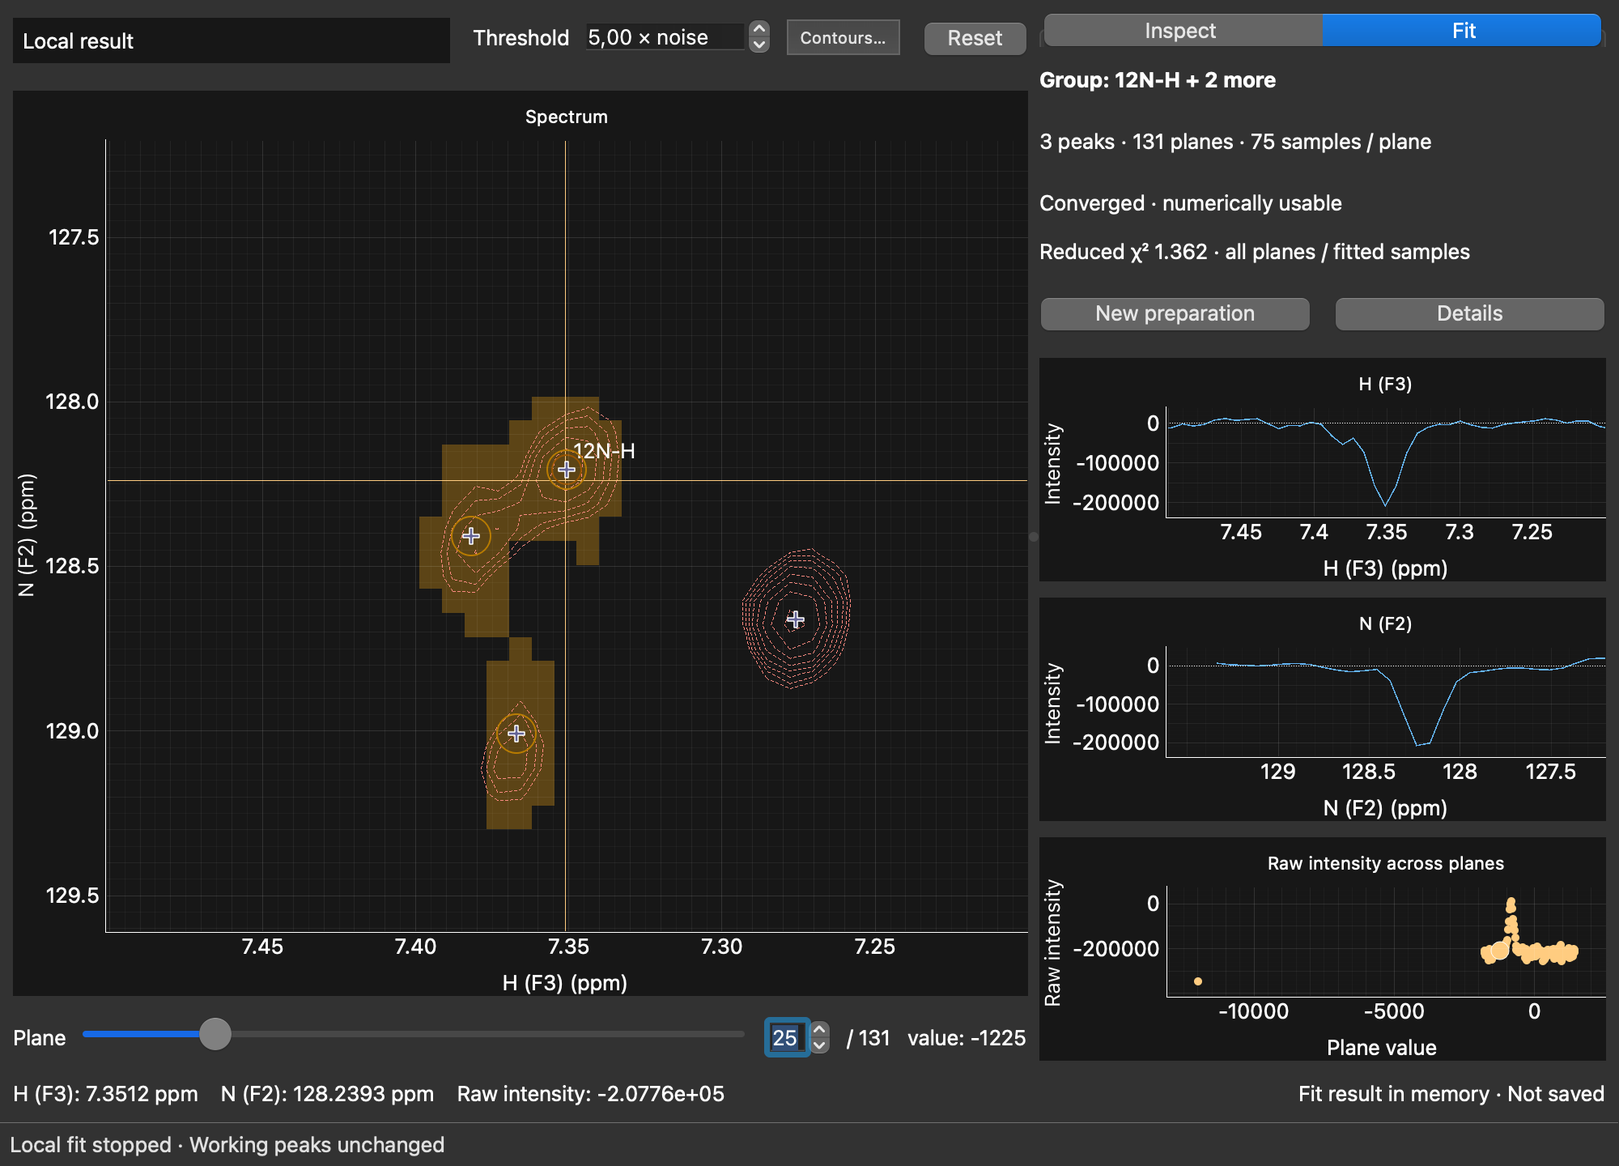
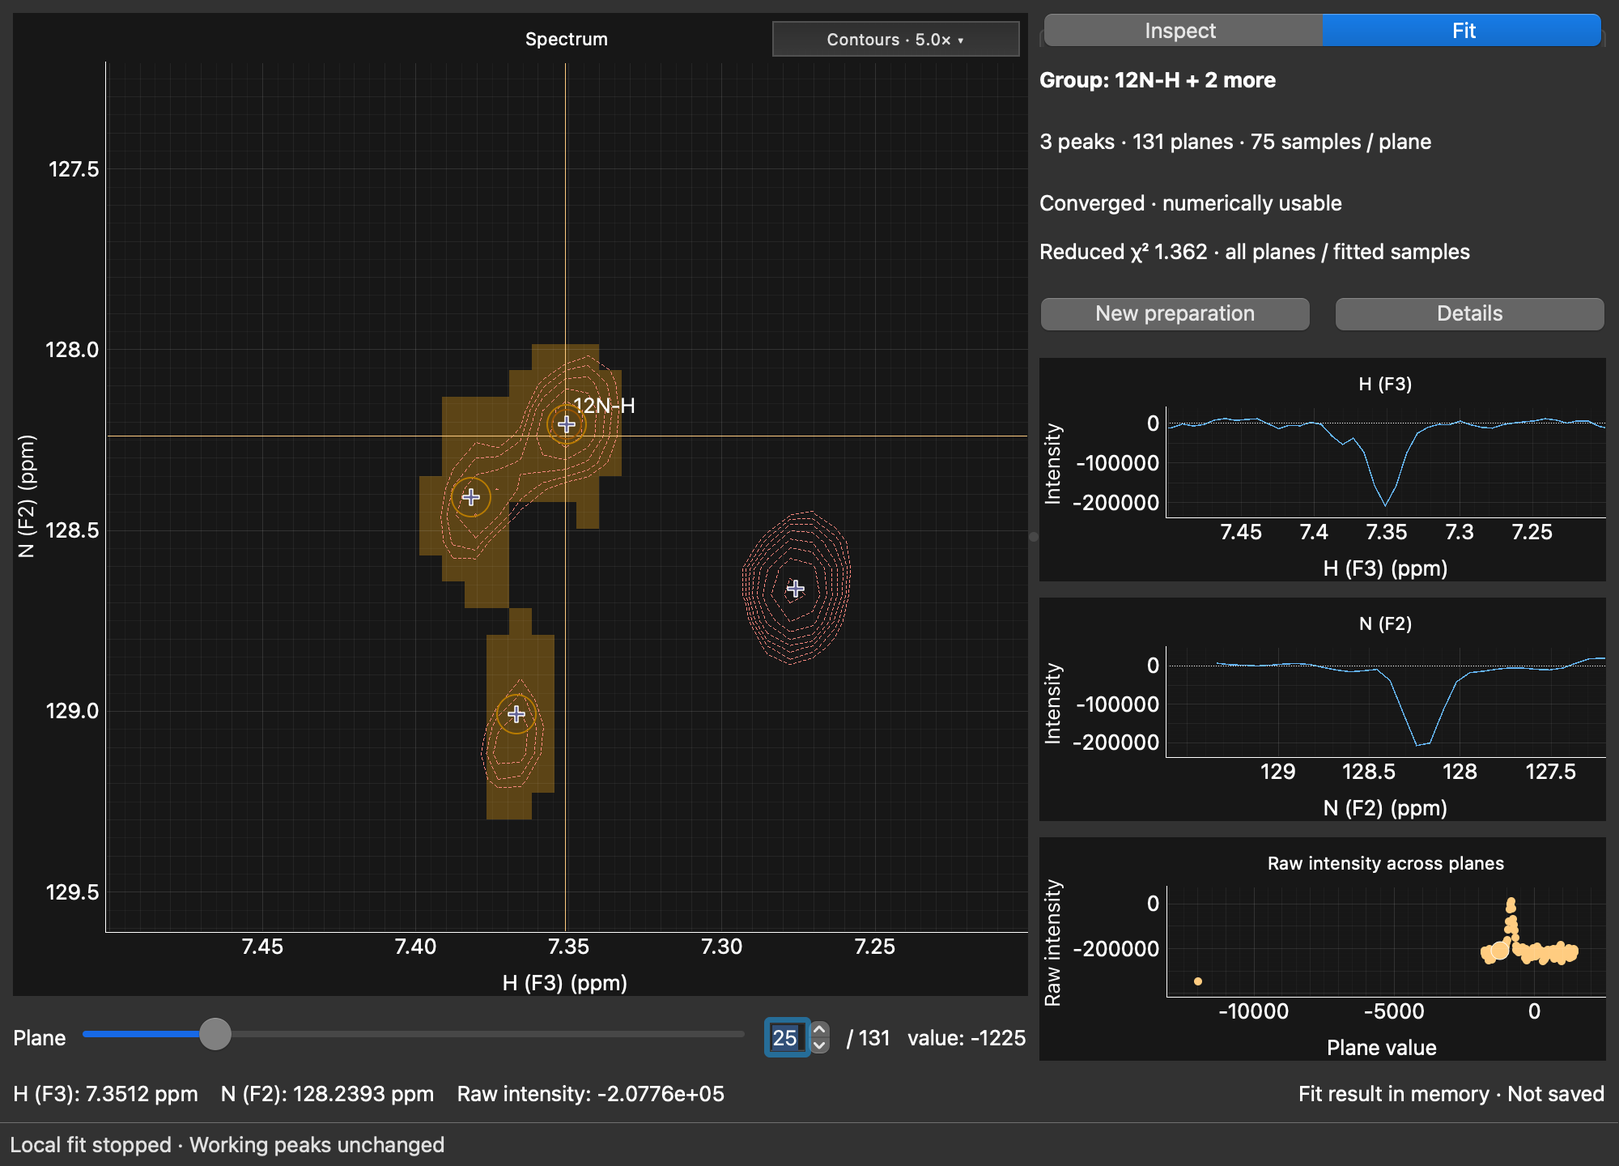
Use one accessible contour control in the spectrum title

diff --git a/src/peakfit/gui/viewer.py b/src/peakfit/gui/viewer.py
@@ -195,7 +195,7 @@ class SpectrumViewer(QtWidgets.QWidget):
     def _axis_title(axis: SpectralParameters) -> str:
         return f"{axis.nucleus or axis.label} ({axis.label})"
 
-    def _build_ui(self) -> None:  # noqa: PLR0915
+    def _build_ui(self) -> None:
         layout = QtWidgets.QVBoxLayout(self)
         layout.setContentsMargins(8, 8, 8, 8)
         splitter = QtWidgets.QSplitter()
@@ -215,22 +215,6 @@ class SpectrumViewer(QtWidgets.QWidget):
             "Drag to pan; scroll to zoom. Click to position the crosshair; "
             "drag either crosshair line."
         )
-        self.interaction_hint = QtWidgets.QLabel()
-        self.interaction_hint.setMargin(6)
-        self.interaction_hint.setFixedHeight(self.interaction_hint.fontMetrics().lineSpacing() + 12)
-        self.interaction_hint.setSizePolicy(
-            QtWidgets.QSizePolicy.Policy.Ignored, QtWidgets.QSizePolicy.Policy.Fixed
-        )
-        self.interaction_hint.setAutoFillBackground(True)
-        header = QtWidgets.QHBoxLayout()
-        self.spectrum_status = QtWidgets.QStackedWidget()
-        self.spectrum_status.setFixedHeight(self.interaction_hint.height())
-        self.spectrum_status.setSizePolicy(
-            QtWidgets.QSizePolicy.Policy.Ignored, QtWidgets.QSizePolicy.Policy.Fixed
-        )
-        self.spectrum_status.addWidget(self.interaction_hint)
-        header.addWidget(self.spectrum_status, 1)
-        left_layout.addLayout(header)
         left_layout.addWidget(self.spectrum_plot, 1)
         self.cross_x = pg.InfiniteLine(angle=90, movable=True, pen=pg.mkPen("#a65e00"))
         self.cross_y = pg.InfiniteLine(angle=0, movable=True, pen=pg.mkPen("#a65e00"))
@@ -254,7 +238,7 @@ class SpectrumViewer(QtWidgets.QWidget):
         self.spectrum_plot.addItem(self.selection_marker)
         self._build_fit_overlay()
         self._build_plane_controls(left_layout)
-        self._build_contour_controls(header)
+        self._build_contour_controls()
         splitter.addWidget(left)
 
         right = self._build_workspaces()
@@ -266,7 +250,14 @@ class SpectrumViewer(QtWidgets.QWidget):
             QtWidgets.QSizePolicy.Policy.Ignored, QtWidgets.QSizePolicy.Policy.Fixed
         )
         footer = QtWidgets.QHBoxLayout()
-        footer.addWidget(self.position_label, 1)
+        self.footer_status = QtWidgets.QStackedWidget()
+        self.footer_status.setFixedHeight(self.position_label.height())
+        self.footer_status.setSizePolicy(
+            QtWidgets.QSizePolicy.Policy.Ignored, QtWidgets.QSizePolicy.Policy.Fixed
+        )
+        self.footer_status.addWidget(self.position_label)
+        self.footer_status.addWidget(self.contour_status)
+        footer.addWidget(self.footer_status, 1)
         self.result_notice = QtWidgets.QLabel()
         footer.addWidget(self.result_notice)
         layout.addLayout(footer)
@@ -642,9 +633,12 @@ class SpectrumViewer(QtWidgets.QWidget):
         row.addWidget(self.plane_label)
         layout.addLayout(row)
 
-    def _build_contour_controls(self, layout: QtWidgets.QHBoxLayout) -> None:  # noqa: PLR0915
-        self.contour_button = QtWidgets.QToolButton()
-        self.contour_button.setText("Contours…")
+    def _build_contour_controls(self) -> None:  # noqa: PLR0915
+        self.contour_button = QtWidgets.QToolButton(self.spectrum_plot.viewport())
+        self.contour_button.setAutoRaise(True)
+        self.contour_button.setFixedWidth(
+            self.contour_button.fontMetrics().horizontalAdvance("Contours · 1000.00× ▾") + 20
+        )
         self.contour_popup = QtWidgets.QDialog(self, QtCore.Qt.WindowType.Popup)
         self.contour_popup.setWindowTitle("Contour controls")
         self.contour_button.clicked.connect(self._show_contour_controls)
@@ -692,7 +686,7 @@ class SpectrumViewer(QtWidgets.QWidget):
             )
         ):
             label = QtWidgets.QLabel(title)
-            label.setBuddy(slider)
+            label.setBuddy(control)
             slider.setAccessibleName(label.text().replace("&", "") + " slider")
             control.setAccessibleName(label.text().replace("&", ""))
             control.setKeyboardTracking(False)
@@ -702,43 +696,57 @@ class SpectrumViewer(QtWidgets.QWidget):
             control.valueChanged.connect(self._sync_contour_sliders)
             grid.addWidget(label, row, 0)
             grid.addWidget(slider, row, 1)
-            if control is not self.threshold:
-                grid.addWidget(control, row, 2)
+            grid.addWidget(control, row, 2)
         grid.setColumnStretch(1, 1)
         self._sync_contour_sliders()
-        reset = QtWidgets.QPushButton("Reset")
-        reset.setToolTip("Reset the spectrum to its full extent")
-        reset.clicked.connect(self.reset_view)
-        controls = QtWidgets.QHBoxLayout()
-        label = QtWidgets.QLabel("&Threshold")
-        label.setBuddy(self.threshold)
-        controls.addWidget(label)
-        controls.addWidget(self.threshold)
-        controls.addWidget(self.contour_button)
-        controls.addWidget(reset)
-        layout.addLayout(controls)
+        # A native widget in the existing title band stays accessible to Qt/macOS.
+        # It never covers data, and its reserved width is independent of the value.
+        item = self.spectrum_plot.getPlotItem()
+        item.titleLabel.setMinimumHeight(self.contour_button.sizeHint().height() + 4)
+        self.contour_button.setFixedHeight(self.contour_button.sizeHint().height())
+        item.vb.sigResized.connect(self._position_contour_control)
+        self._position_contour_control()
         self.contour_status = QtWidgets.QLabel()
         self.contour_status.setFixedHeight(self.contour_status.fontMetrics().lineSpacing() + 4)
         self.contour_status.setSizePolicy(
             QtWidgets.QSizePolicy.Policy.Ignored, QtWidgets.QSizePolicy.Policy.Fixed
         )
-        self.spectrum_status.addWidget(self.contour_status)
+
+    def _position_contour_control(self) -> None:
+        """Keep the control within the title band, outside the spectral ViewBox."""
+        title = self.spectrum_plot.getPlotItem().titleLabel
+        rect = self.spectrum_plot.mapFromScene(title.sceneBoundingRect()).boundingRect()
+        self.contour_button.move(
+            rect.right() - self.contour_button.width() - 4,
+            rect.top() + (rect.height() - self.contour_button.height()) // 2,
+        )
 
     def _show_contour_controls(self) -> None:
         """Anchor transient controls without changing the spectrum layout."""
         popup = self.contour_popup
         popup.adjustSize()
-        anchor = self.contour_button.mapToGlobal(self.contour_button.rect().bottomLeft())
+        anchor = self.contour_button.mapToGlobal(self.contour_button.rect().bottomRight())
         screen = self.contour_button.screen().availableGeometry()
-        x = min(anchor.x(), screen.right() - popup.width() + 1)
+        x = min(anchor.x() - popup.width() + 1, screen.right() - popup.width() + 1)
         y = anchor.y()
         if y + popup.height() > screen.bottom():
             y = self.contour_button.mapToGlobal(QtCore.QPoint(0, 0)).y() - popup.height()
         popup.move(max(screen.left(), x), max(screen.top(), y))
         popup.show()
-        self.threshold_slider.setFocus()
+        self.threshold.setFocus()
+        self.threshold.selectAll()
 
     def _sync_contour_sliders(self) -> None:
+        value = f"{self.threshold.value():.2f}".rstrip("0")
+        if value.endswith("."):
+            value += "0"
+        self.contour_button.setText(f"Contours · {value}× ▾")
+        self.contour_button.setAccessibleName(f"Contours, threshold {value} times noise")
+        self.contour_button.setToolTip(
+            f"Lowest contour: {self.lowest_contour_level:.9g} ({value} × first-plane noise). "
+            "Click to edit threshold, spacing and levels. During preparation, "
+            "threshold changes update the fitting group; submitted fits stay fixed."
+        )
         for slider, value in (
             (self.threshold_slider, round(100 * np.log10(self.threshold.value() / 0.1))),
             (self.factor_slider, round(100 * self.factor.value())),
@@ -786,7 +794,7 @@ class SpectrumViewer(QtWidgets.QWidget):
         self._contour_revision += 1
         self._computation.cancel("contours")
         self.contour_status.setText("Updating contours…")
-        self.spectrum_status.setCurrentIndex(1)
+        self.footer_status.setCurrentIndex(1)
         self.contour_status.setToolTip(
             "Previous contours remain visible until the new set is ready."
         )
@@ -836,7 +844,7 @@ class SpectrumViewer(QtWidgets.QWidget):
                 )
                 item.setPath(paths[index])
         self.contour_status.clear()
-        self.spectrum_status.setCurrentIndex(0)
+        self.footer_status.setCurrentIndex(0)
         self.contour_status.setToolTip("")
 
     @QtCore.Slot(str, int, object)
@@ -852,7 +860,7 @@ class SpectrumViewer(QtWidgets.QWidget):
                 self._apply_fit_preparation(cast("PreparedLocalFit", outcome))
         elif kind == "contours" and revision == self._contour_revision:
             if isinstance(outcome, Exception):
-                self.spectrum_status.setCurrentIndex(1)
+                self.footer_status.setCurrentIndex(1)
                 self.contour_status.setText("Contour update failed · hover for details")
                 self.contour_status.setToolTip(str(outcome))
             else:
@@ -1132,18 +1140,7 @@ class SpectrumViewer(QtWidgets.QWidget):
             text = "Drag selected peak to move · Edit fields at right · Fit previews fitting scope"
         else:
             text = "Click a peak to select · Drag background to pan · Scroll to zoom"
-        self.interaction_hint.setText(text.split(" · ", 1)[0])
-        self.interaction_hint.setToolTip(text)
-        self.interaction_hint.setBackgroundRole(
-            QtGui.QPalette.ColorRole.Highlight
-            if self.adding_peak
-            else QtGui.QPalette.ColorRole.Base
-        )
-        self.interaction_hint.setForegroundRole(
-            QtGui.QPalette.ColorRole.HighlightedText
-            if self.adding_peak
-            else QtGui.QPalette.ColorRole.Text
-        )
+        self.spectrum_plot.setToolTip(text)
         # Resolve placement before editing another assignment; Cancel stays available.
         for field in (
             self.inspector.name,

diff --git a/tests/test_gui_fitting.py b/tests/test_gui_fitting.py
@@ -130,18 +130,23 @@ def test_all_plane_region_identity_aliasing_and_read_only_preview(monkeypatch) -
 
     positions = plot_positions()
     spectrum_geometry = viewer.spectrum_plot.geometry()
-    assert viewer.threshold.mapTo(viewer, QtCore.QPoint()).y() < (
-        viewer.spectrum_plot.mapTo(viewer, QtCore.QPoint()).y()
-    )
+    assert not viewer.threshold.isVisible()
+    assert "5.0×" in viewer.contour_button.text()
+    title_button = viewer.contour_button.geometry()
+    data_top = viewer.spectrum_plot.mapFromScene(
+        viewer.spectrum_plot.getViewBox().sceneBoundingRect().topLeft()
+    ).y()
+    assert title_button.bottom() <= data_top
     # Contour controls are transient, precise and keyboard accessible; opening them
     # never reflows either the spectrum or inspection plots.
     QtTest.QTest.mouseClick(viewer.contour_button, QtCore.Qt.MouseButton.LeftButton)
     app.processEvents()
     assert viewer.contour_popup.isVisible()
-    assert viewer.threshold_slider.hasFocus()
+    assert viewer.threshold.hasFocus()
+    assert viewer.threshold.isVisible()
     assert viewer.spectrum_plot.geometry() == spectrum_geometry
     assert plot_positions() == positions
-    QtTest.QTest.keyClick(viewer.threshold_slider, QtCore.Qt.Key.Key_Escape)
+    QtTest.QTest.keyClick(viewer.threshold, QtCore.Qt.Key.Key_Escape)
     assert not viewer.contour_popup.isVisible()
     try:
         viewer.workspace_tabs.setCurrentIndex(1)
@@ -335,7 +340,10 @@ def test_low_threshold_preparation_keeps_qt_responsive_and_rejects_obsolete_work
             viewer.threshold_slider.geometry(),
             viewer.fit_preview.parameters.geometry(),
         )
+        button_geometry = viewer.contour_button.geometry()
         viewer.threshold.setValue(0.1)
+        assert "0.1×" in viewer.contour_button.text()
+        assert viewer.contour_button.geometry() == button_geometry
         assert any(item.isVisible() for item in viewer.contours)
         _process_events()
         assert (

diff --git a/tests/test_gui_viewer.py b/tests/test_gui_viewer.py
@@ -425,7 +425,7 @@ def test_add_peak_lifecycle_and_editing_sequence(tmp_path: Path, monkeypatch) ->
         QtTest.QTest.mouseClick(add, QtCore.Qt.MouseButton.LeftButton)
         assert add.isChecked()
         assert add.text() == "Cancel placement"
-        assert "PLACING PEAK" in viewer.interaction_hint.text()
+        assert "PLACING PEAK" in viewer.spectrum_plot.toolTip()
         QtTest.QTest.mouseClick(add, QtCore.Qt.MouseButton.LeftButton)
         assert not viewer.adding_peak
         QtTest.QTest.mouseClick(add, QtCore.Qt.MouseButton.LeftButton)

diff --git a/docs/gui.md b/docs/gui.md
@@ -15,20 +15,20 @@ starts automatic peak picking. Other dimensionalities are rejected with an error
 
 ![Spectrum viewer with the bundled experimental dataset](images/spectrum-viewer.png)
 
-Native macOS capture; [Inspect in a small dark window](images/spectrum-viewer-dark.png)
+Native macOS capture; [A small dark window](images/spectrum-viewer-dark.png)
 is also available.
 
 ## Navigation
 
-- Drag the spectrum to pan; scroll to zoom about the pointer. **Reset** or
+- Drag the spectrum to pan; scroll to zoom about the pointer. **View → Reset view** or
   **Ctrl+0** restores the full spectral range.
 - Click to place the crosshair, or drag either crosshair line. It snaps to sampled
   points so the two orthogonal traces and raw plane profile inspect the same data.
 - Use the plane slider/spin box or **Ctrl+Page Up / Ctrl+Page Down**. Plane numbers start at
   1; the adjacent value is the experimental coordinate supplied by `--z-values`,
   or the original zero-based plane index when no values file is supplied.
-- **Threshold** accepts precise entries. **Contours…** contains sliders for threshold,
-  geometric spacing, and level count, plus precise spacing/count inputs. The threshold slider is
+- **Contours · 5.0× ▾** in the spectrum title shows the current threshold.
+  Click it for precise threshold, spacing and level-count inputs and their sliders. The threshold slider is
   logarithmic (0.1–1000 × the first plane's estimated noise), with fine relative
   adjustments at low thresholds. Slider arrow keys make small changes; Page Up /
   Page Down make larger changes when a slider has focus. Blue solid contours are
@@ -64,10 +64,10 @@ Peak-history Undo/Redo and peak deletion are unavailable while inspector text is
 pending. Apply the text or press Escape to restore the committed fields first;
 an inline hint explains this. Native text-field undo remains available.
 Choose **Add peak…** (or A with spectrum focus), then click once to place a peak.
-The instruction strip above the spectrum highlights **PLACING PEAK**, and the
-same button becomes **Cancel placement**; click it or press Escape to cancel.
+The same button becomes **Cancel placement**; click it or press Escape to cancel.
+The spectrum tooltip describes the active placement gesture.
 Inspector fields pause during placement and become editable again when it finishes.
-The strip otherwise explains selection, navigation, or editing the selected peak.
+Spectrum tooltips explain selection, navigation, and editing the selected peak.
 Select a peak before dragging it: an open-hand cursor advertises movement. The ring and label preview the new position while the original cross
 remains as a reference. Release commits one undoable move; Escape restores it.
 Dragging an unselected marker pans. Peak coordinates retain fractional precision
@@ -102,18 +102,24 @@ are newly allocated on import; they are not scientific parameter identifiers.
 
 ## Compact contour controls
 
-Plane navigation remains below the spectrum. The precise numerical **Threshold**,
-**Contours…**, and **Reset** share the spectrum header, freeing the space beneath
-the 2D plot. The header shows a short interaction hint; hover for the complete
-instruction. Contour-update status temporarily uses that same space.
-**Contours…** opens an anchored popup containing the logarithmic threshold
-slider, spacing slider/value, and level-count slider/value. Arrow keys adjust the
-focused slider; Tab moves between controls; Escape or clicking outside closes the
-popup. Changes update the display immediately through the existing debounced worker.
-Opening it does not change plot geometry. Threshold uses first-plane noise for its
-scale; it is not the independently estimated statistical fitting noise.
+The spectrum's existing title band contains one compact **Contours · 5.0× ▾**
+control. Its value is the current threshold in multiples of first-plane noise.
+Click once to edit the precise numerical threshold, logarithmic threshold slider,
+spacing and level count in an anchored popup. The numeric input receives focus;
+Enter commits a typed value, Tab moves between controls, and Escape or clicking
+outside closes the popup. The button has a fixed width, so changing values never
+moves it or the plots. It remains outside the spectral data area.
 
-![Compact contour popup in dark appearance](images/contour-controls.png)
+There is no separate toolbar, interaction banner, or permanent threshold editor.
+Reset is available through **View → Reset view** and **Ctrl+0**. Plane navigation
+remains below the spectrum. Interaction instructions are in spectrum tooltips;
+contour progress/errors temporarily use the existing coordinate footer. Threshold
+uses first-plane noise for its scale, not the independently estimated statistical
+fitting noise. The numerical contour worker and debouncing are unchanged.
+
+![Contour settings open from the spectrum title](images/contour-controls.png)
+
+[Contour settings in a small dark window](images/contour-controls-dark.png).
 
 During preparation, threshold changes still update the exact group and sampled mask.
 Once submitted, a fit retains its original scientific inputs: contour changes during
@@ -253,8 +259,8 @@ that finish during an earlier dialog are checked by the final result-discard gua
 While fitting, zoom, pan, crosshair inspection, plane navigation, and ordinary
 contour controls remain available. Switching Inspect/Fit and selecting another
 peak retain the active fit. Scientific edits, Undo/Redo, peak-list/plane-coordinate
-replacement, and opening another spectrum pause until the fit stops. The instruction
-strip explains this restriction. Contour changes affect rendering only once a fit
+replacement, and opening another spectrum pause until the fit stops. The Fit
+header and spectrum tooltip explain this restriction. Contour changes affect rendering only once a fit
 has been submitted; its original fitting threshold and mask remain fixed.
 
 The completed Fit workspace distinguishes **converged**, **usable but not converged**,
@@ -292,7 +298,8 @@ applying fitted coordinates is not available in this step.
 
 ![Completed numerical result with persistent experimental plots](images/local-fit-completed.png)
 
-[Result in a small dark window](images/local-fit-completed-dark.png) ·
+[Small light window](images/local-fit-completed-small.png) ·
+[Small dark window](images/local-fit-completed-dark.png) ·
 [On-demand numerical details](images/local-fit-details.png).
 
 ## Next visualization step

diff --git a/docs/development.md b/docs/development.md
@@ -280,10 +280,29 @@ stale delivery, unsaved-result guards, manual editing/history/export, and the
 complete dense low-threshold contours. Ruff, formatting, strict ty and import-linter
 pass. No new test functions or dependencies were added.
 
-The follow-up header placement moves Threshold, Contours and Reset above the 2D
-plot, using the existing hint row. Contour progress shares that row; full hints
-remain available on hover. Only plane navigation remains below the spectrum.
-At 1000 × 720 content size the 2D plot height increased from 487 to 559 pixels,
-while the three inspection plots kept their original positions and sizes. Native
-light/dark captures were refreshed; the existing preparation scenario also checks
-that the threshold is above the spectrum.
+The final review refinement replaces the crowded `0781710` toolbar with one
+fixed-width `Contours · 5.0× ▾` button in PyQtGraph's existing spectrum title band.
+It is a normal Qt child of the plot viewport, positioned from the title geometry
+on ViewBox resize; it does not cover spectral samples. This preserves native
+accessibility (a QGraphicsProxyWidget trial did not expose the button on macOS).
+Precise threshold entry now lives in the popup and receives focus immediately.
+Reset remains in View and on Ctrl+0. Redundant fitting-state banners are removed;
+instructions use tooltips, and contour progress shares the coordinate footer.
+The visible button width stays fixed across threshold updates.
+
+Native visual review checked the final control at normal and small sizes in both
+appearances. It sits beside the centered plot title rather than competing with
+the Fit header; the right-aligned popup stays within the spectrum column. The
+threshold readout and all popup inputs were legible in dark mode. Actual native
+input verified one-click numeric entry and group changes (5×: three peaks / 75
+samples; 6×: two peaks / 48 samples), then restored 5× before execution. Background
+fitting completed normally; plane 25, inline details, and View → Reset view remained
+accessible. Spectrum/inspection geometry stayed fixed during popup visibility and
+threshold updates. The existing scenario checks that the control stays outside
+the data ViewBox and does not move at the 0.1× threshold.
+
+The screenshots were refreshed, including normal settings-closed, settings-open,
+and small light/dark views. macOS window capture omitted the transient popup, so
+the settings-open images composite the actual Qt window and popup grabs at their
+actual on-screen positions.
+The final full offscreen suite passed all 233 tests; no test functions were added.
